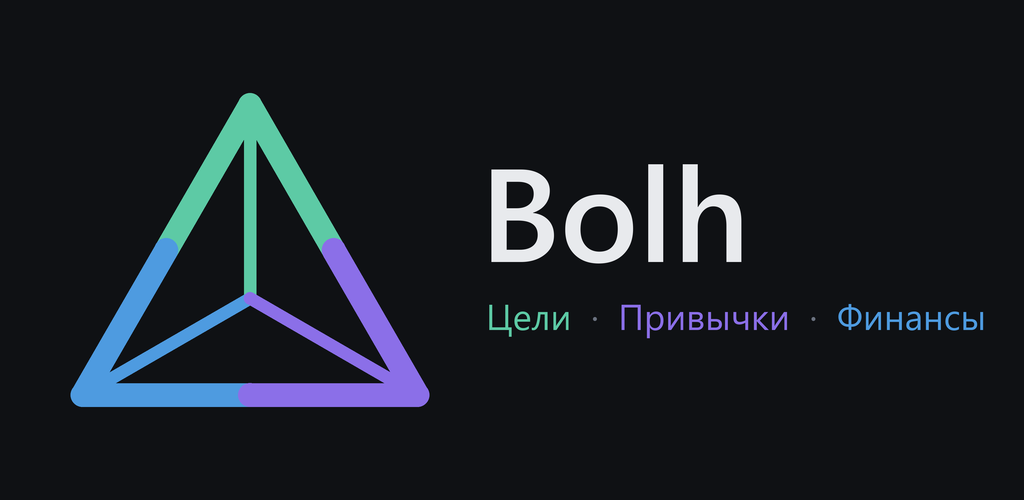
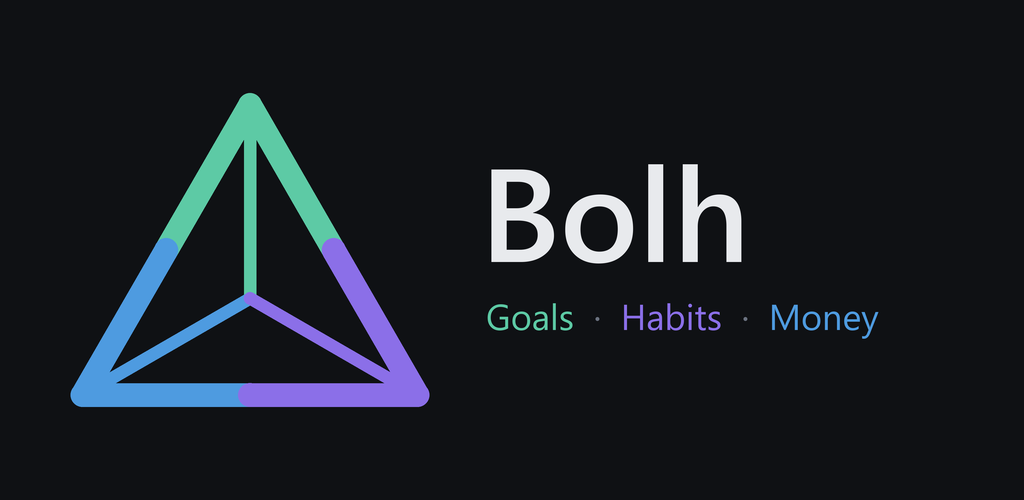
Материалы Google Play: скриншоты на английском и русском, обложки на пяти языках

Changed region(s): [[0.5938, 0.6, 0.9688, 0.66], [0.4688, 0.6, 0.5625, 0.66]]

diff --git a/docs/play/store-listing.md b/docs/play/store-listing.md
@@ -5,8 +5,10 @@
 
 Язык страницы по умолчанию: **английский (en-US)**. Остальные языки добавляются в Play Console через «Управление переводами»: русский (ru-RU), нидерландский (nl-NL), немецкий (de-DE), французский (fr-FR).
 
-Графика лежит рядом: `play_icon_512.png` (значок 512×512) и `feature_graphic_1024x500.png` (обложка).
-Скриншоты телефона: минимум 2, длинная сторона не больше двух коротких (например, 1080×2160).
+Графика лежит рядом:
+- значок 512×512: `play_icon_512.png` (один на все языки);
+- обложка 1024×500: `feature_graphic_1024x500.png` (английская, основная), `feature_graphic_ru.png`, `feature_graphic_nl.png`, `feature_graphic_de.png`, `feature_graphic_fr.png`;
+- скриншоты телефона 1080×2160: `screenshots/en/` (основные, по порядку 01–06) и `screenshots/ru/` для русской страницы. Для нидерландской, немецкой и французской страниц Google покажет английские.
 
 ---
 
